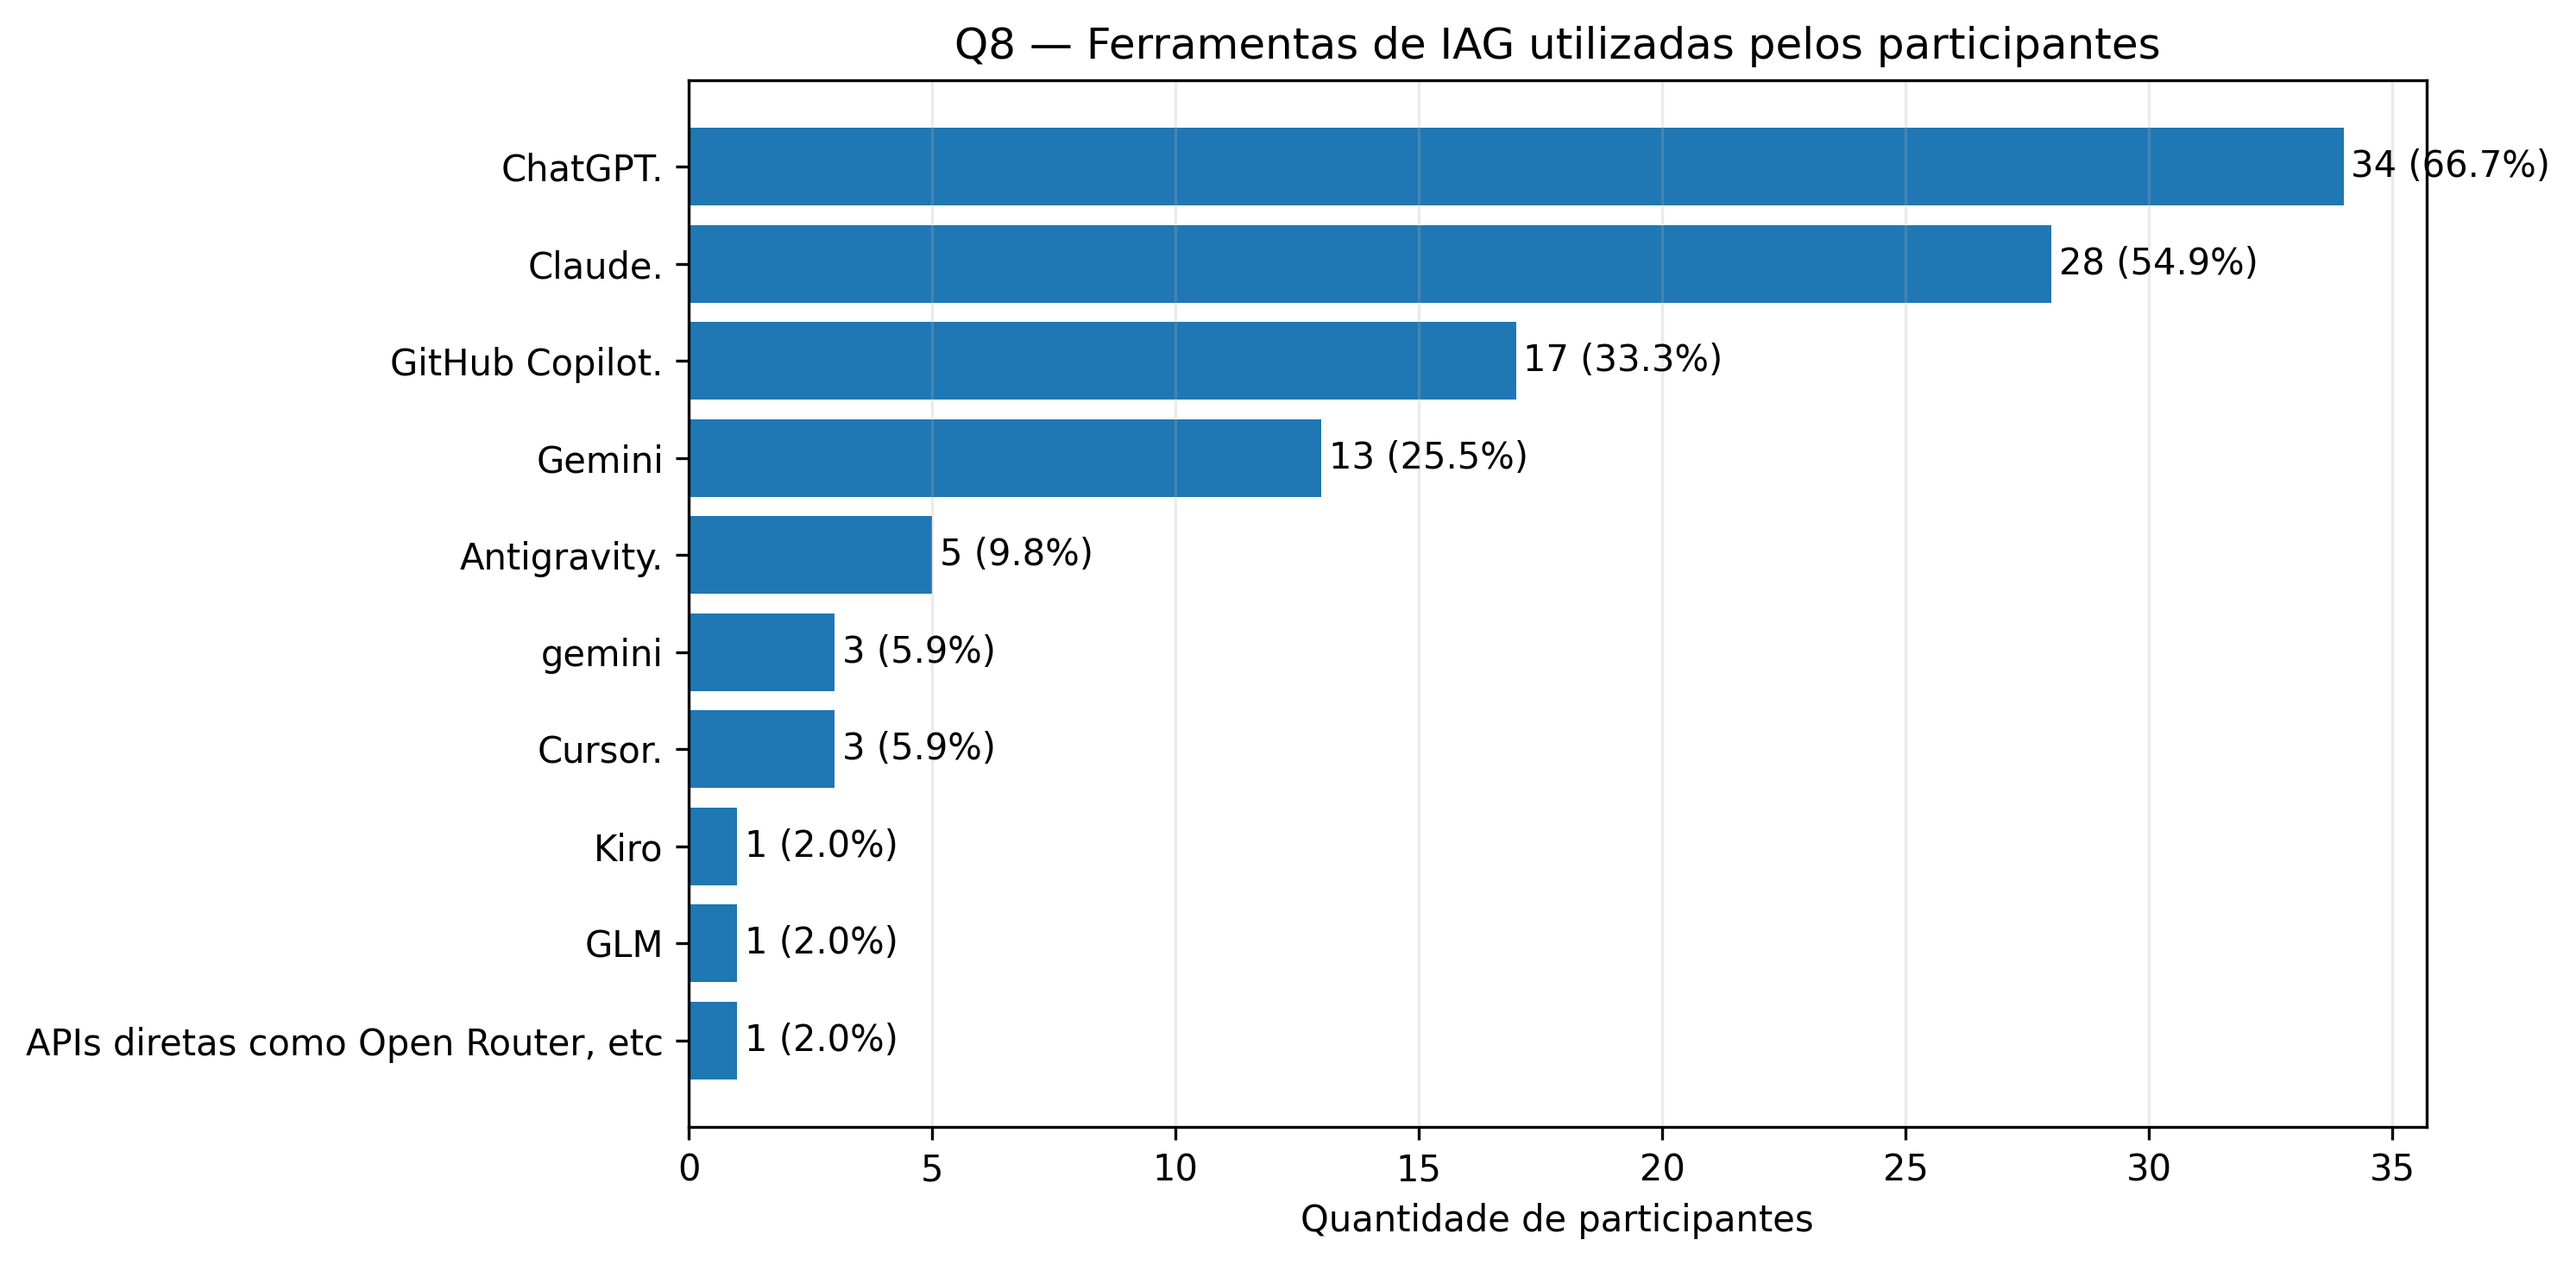
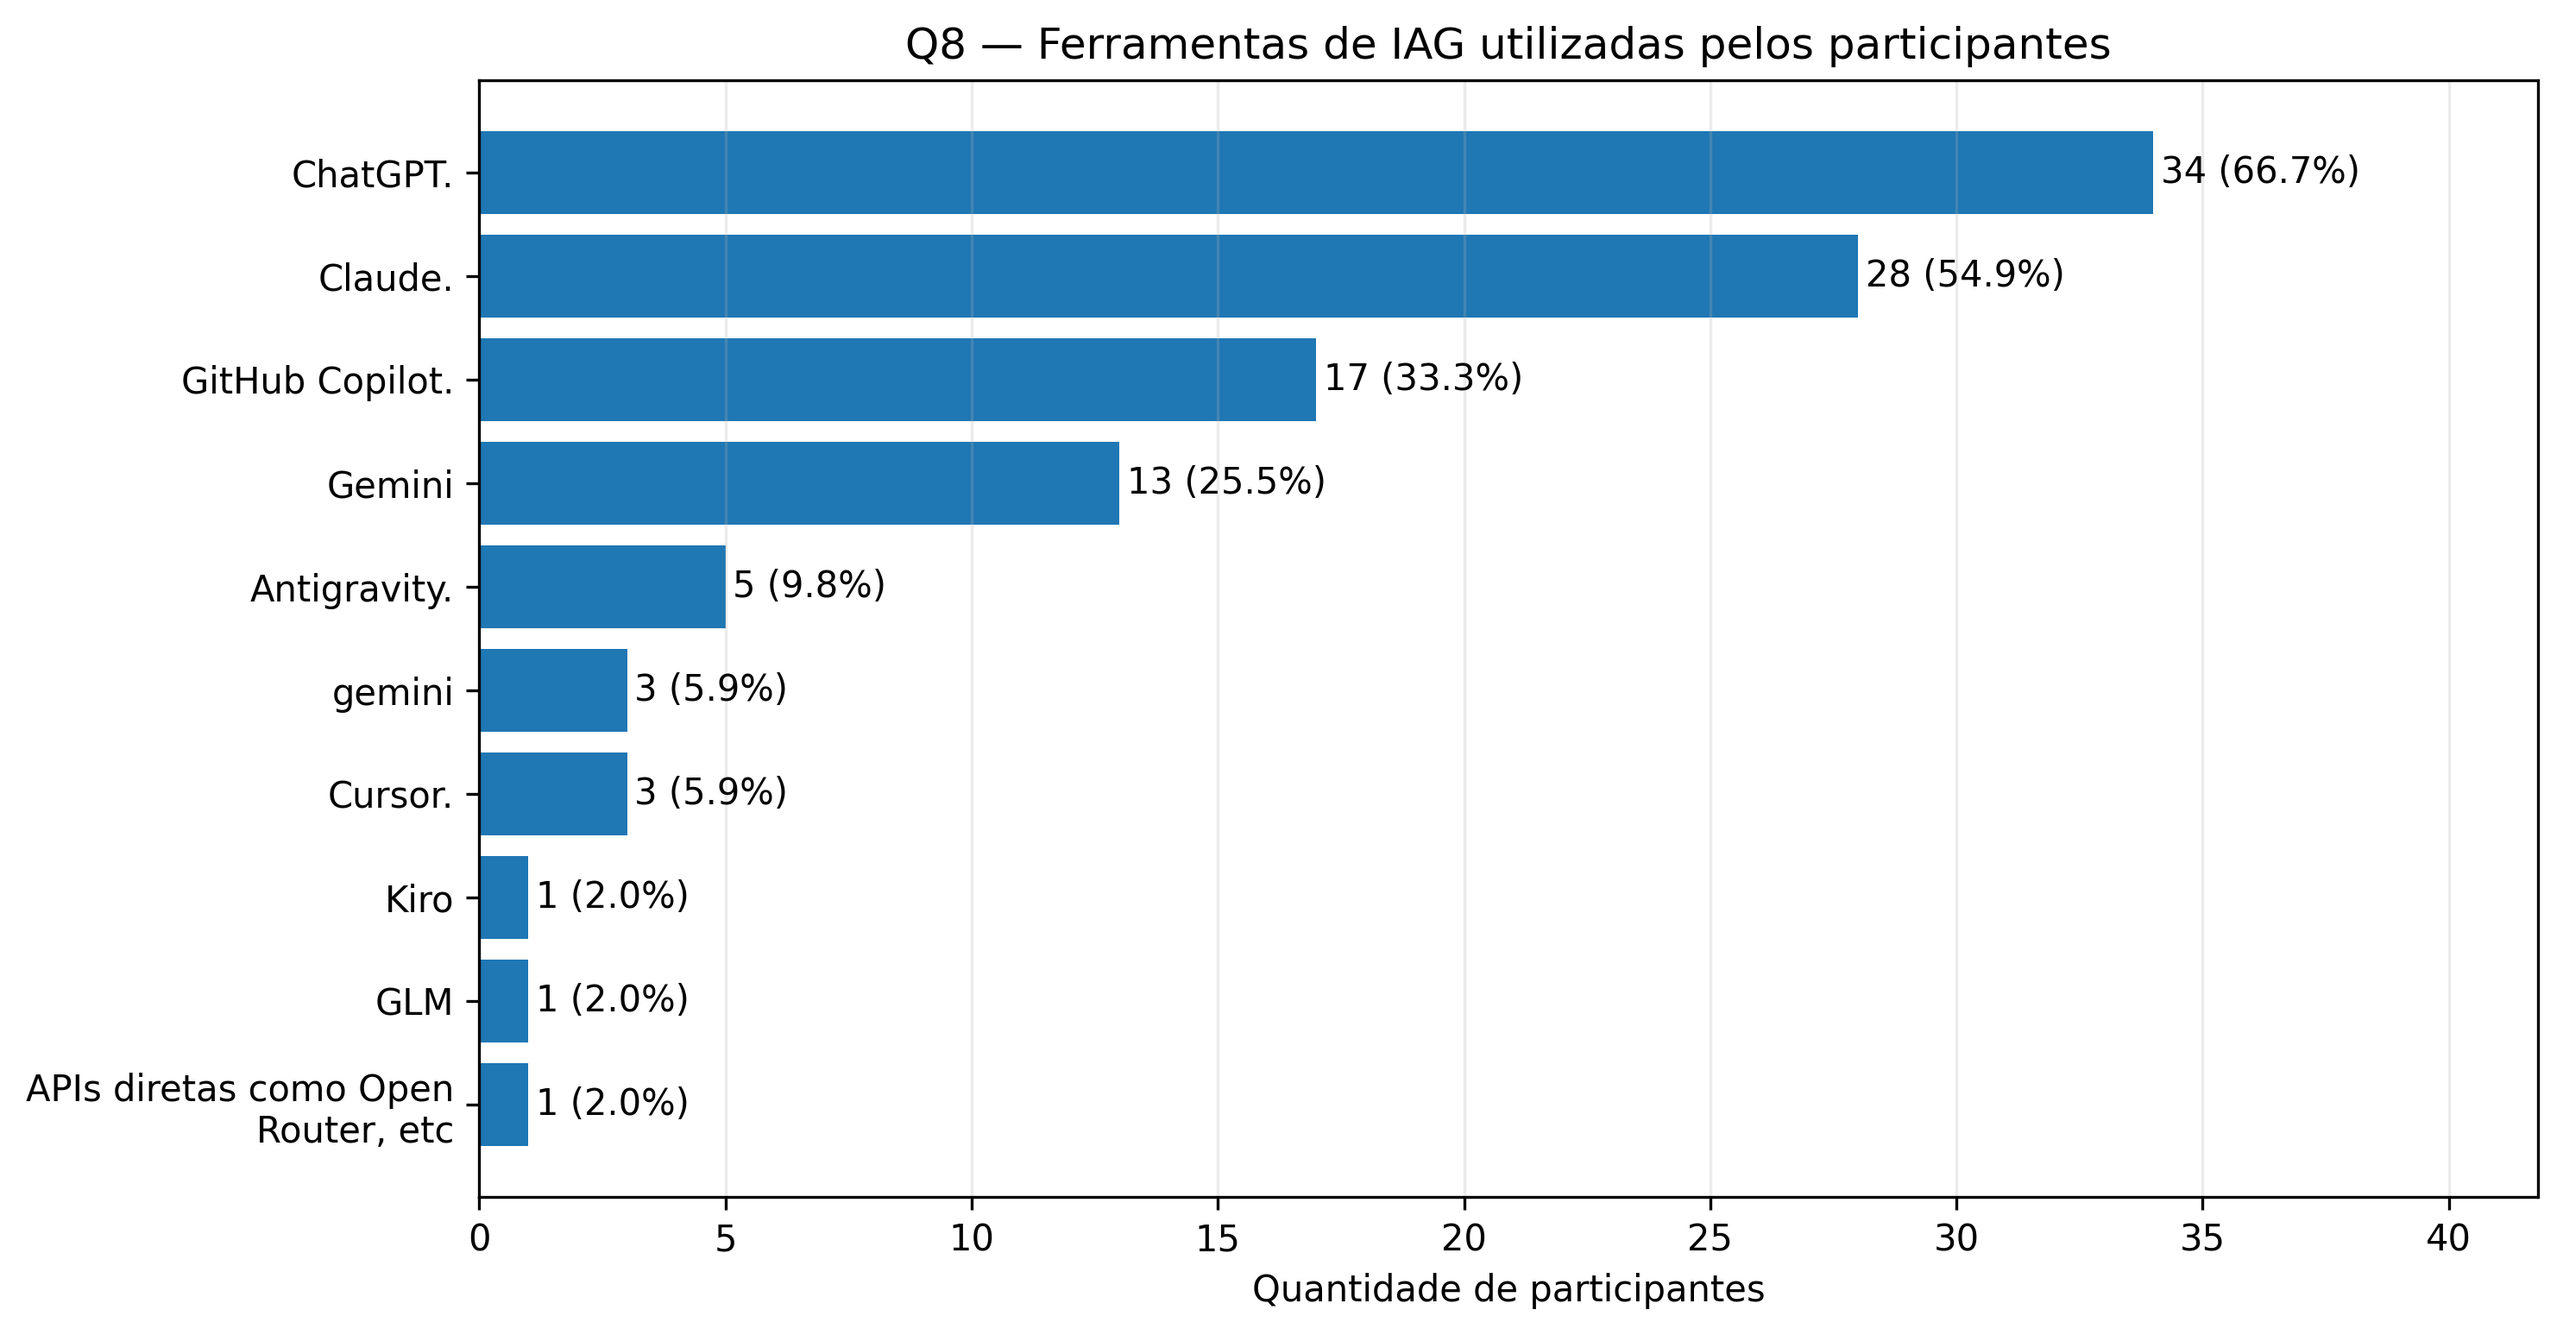
refatora funções de salvamento de gráficos para utilizar subplots e melhora a formatação dos rótulos; atualiza gráficos de frequência de utilização, ferramentas utilizadas e finalidades de utilização

diff --git a/analise_5_2.py b/analise_5_2.py
@@ -1,6 +1,7 @@
 from pathlib import Path
 import re
 import sys
+import textwrap
 import unicodedata
 import pandas as pd
 import matplotlib.pyplot as plt
@@ -138,33 +139,39 @@ def salvar_grafico_unico(tabela, titulo, nome_arquivo):
         return
 
     tabela_plot = tabela.sort_values("Frequência", ascending=True)
+    categorias = tabela_plot["Categoria"].astype(str).map(
+        lambda texto: textwrap.fill(texto, width=28)
+    )
 
     altura = max(4.5, len(tabela_plot) * 0.65)
-    plt.figure(figsize=(9, altura))
+    fig, ax = plt.subplots(figsize=(9, altura))
 
-    barras = plt.barh(
-        tabela_plot["Categoria"].astype(str),
+    barras = ax.barh(
+        categorias,
         tabela_plot["Frequência"]
     )
 
-    plt.xlabel("Quantidade de participantes")
-    plt.title(titulo)
-    plt.grid(axis="x", alpha=0.25)
+    ax.set_xlabel("Quantidade de participantes")
+    ax.set_title(titulo)
+    ax.grid(axis="x", alpha=0.25)
 
     total = int(tabela_plot["Frequência"].sum())
+    maior_valor = int(tabela_plot["Frequência"].max())
+    ax.set_xlim(0, maior_valor * 1.2 + 1)
+
     for barra in barras:
         valor = int(barra.get_width())
         percentual = valor / total * 100 if total else 0
-        plt.text(
+        ax.text(
             valor + 0.15,
             barra.get_y() + barra.get_height() / 2,
             f"{valor} ({percentual:.1f}%)",
             va="center"
         )
 
-    plt.tight_layout()
-    plt.savefig(PASTA_RESULTADOS / nome_arquivo, dpi=300, bbox_inches="tight")
-    plt.close()
+    fig.tight_layout()
+    fig.savefig(PASTA_RESULTADOS / nome_arquivo, dpi=300, bbox_inches="tight")
+    plt.close(fig)
 
 
 def salvar_grafico_multipla(tabela, titulo, nome_arquivo):
@@ -173,31 +180,37 @@ def salvar_grafico_multipla(tabela, titulo, nome_arquivo):
         return
 
     tabela_plot = tabela.sort_values("Participantes", ascending=True)
-    altura = max(5, len(tabela_plot) * 0.48)
+    categorias = tabela_plot["Alternativa"].astype(str).map(
+        lambda texto: textwrap.fill(texto, width=28)
+    )
+    linhas_rotulos = sum(texto.count("\n") + 1 for texto in categorias)
+    altura = max(5, linhas_rotulos * 0.48)
 
-    plt.figure(figsize=(10, altura))
-    barras = plt.barh(
-        tabela_plot["Alternativa"],
+    fig, ax = plt.subplots(figsize=(10, altura))
+    barras = ax.barh(
+        categorias,
         tabela_plot["Participantes"]
     )
 
-    plt.xlabel("Quantidade de participantes")
-    plt.title(titulo)
-    plt.grid(axis="x", alpha=0.25)
+    ax.set_xlabel("Quantidade de participantes")
+    ax.set_title(titulo)
+    ax.grid(axis="x", alpha=0.25)
+    maior_valor = int(tabela_plot["Participantes"].max())
+    ax.set_xlim(0, maior_valor * 1.2 + 1)
 
     for barra, (_, linha) in zip(barras, tabela_plot.iterrows()):
         quantidade = int(linha["Participantes"])
         percentual = linha["Percentual dos participantes (%)"]
-        plt.text(
+        ax.text(
             quantidade + 0.15,
             barra.get_y() + barra.get_height() / 2,
             f"{quantidade} ({percentual:.1f}%)",
             va="center"
         )
 
-    plt.tight_layout()
-    plt.savefig(PASTA_RESULTADOS / nome_arquivo, dpi=300, bbox_inches="tight")
-    plt.close()
+    fig.tight_layout()
+    fig.savefig(PASTA_RESULTADOS / nome_arquivo, dpi=300, bbox_inches="tight")
+    plt.close(fig)
 
 
 # ---------------------------------------------------------------------
